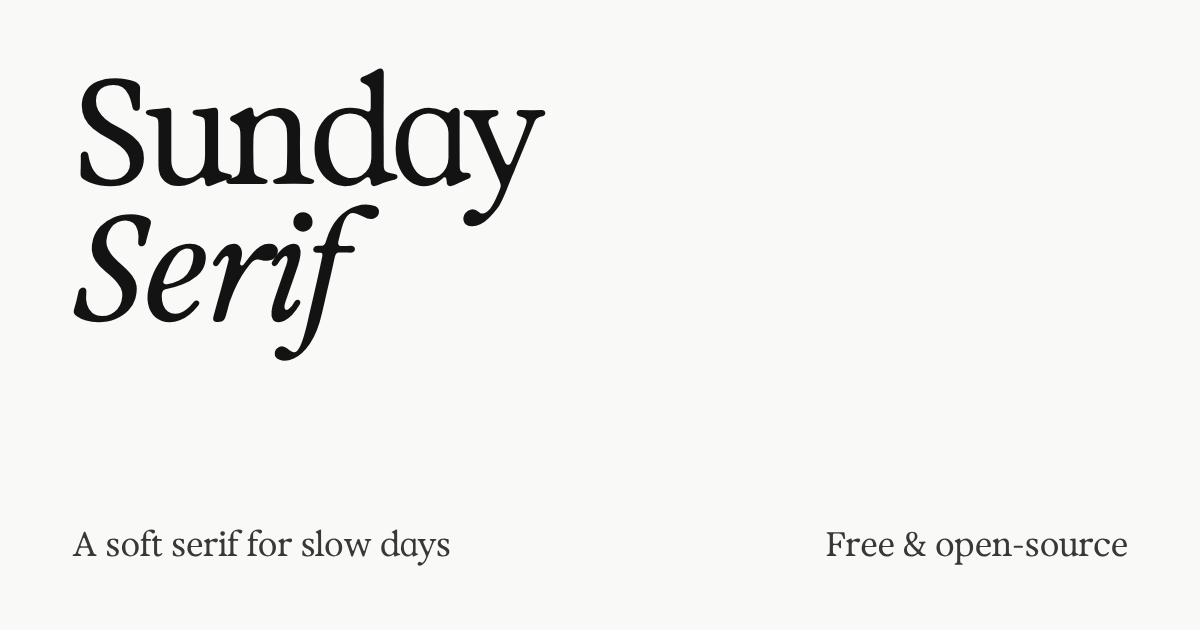
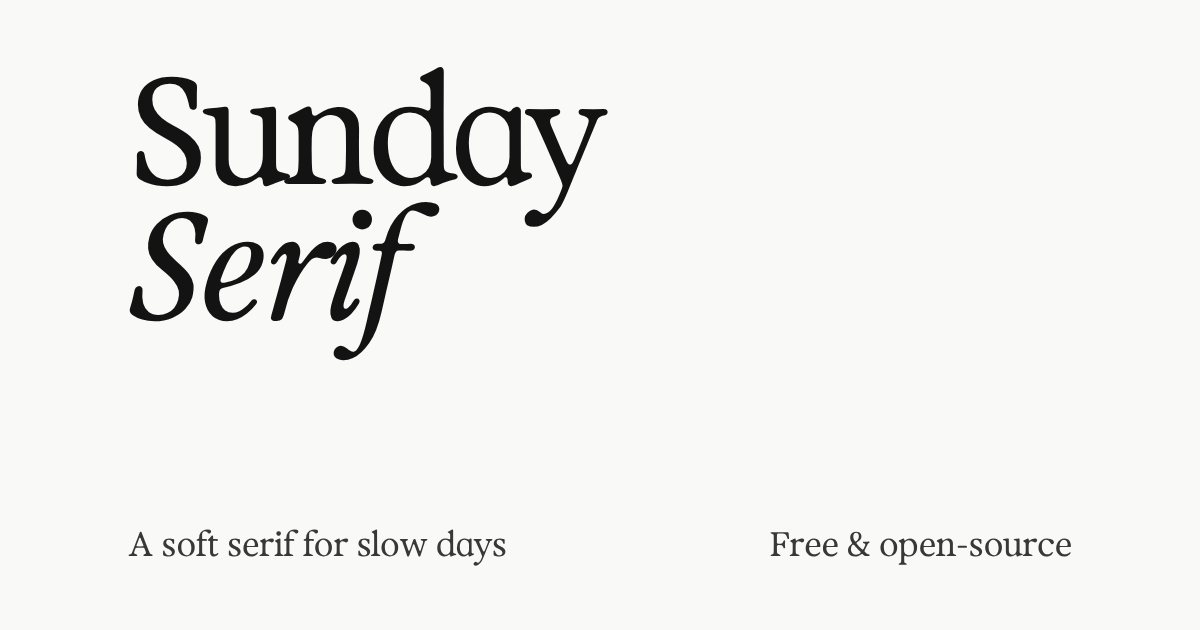
fix(site): match the og image margins and title size to the bio card
Claude-Session: https://claude.ai/code/session_01NzgfqKtVGHHL9qnvSDLkto

Changed region(s): [[0.0617, 0.0905, 0.5242, 0.573], [0.0617, 0.8444, 0.4317, 0.9048], [0.6167, 0.8444, 0.9558, 0.9048]]

diff --git a/scripts/og-source.html b/scripts/og-source.html
@@ -1,6 +1,6 @@
 <!doctype html><html><head><meta charset="utf-8"><link rel="stylesheet" href="styles.css">
 <style>body{margin:0;width:1200px;height:630px;overflow:hidden}
-.og{box-sizing:border-box;width:1200px;height:630px;padding:64px 72px;display:flex;flex-direction:column;justify-content:space-between;background:#F9F9F7;color:#131313}
-.og h1{font:400 148px/.92 "Sunday Serif";letter-spacing:-.03em;margin:0;color:#131313}
+.og{box-sizing:border-box;width:1200px;height:630px;padding:64px 128px;display:flex;flex-direction:column;justify-content:space-between;background:#F9F9F7;color:#131313}
+.og h1{font:400 150px/.9 "Sunday Serif";letter-spacing:-.03em;margin:0;color:#131313}
 .og p{font:400 34px/1.2 "Sunday Serif";color:#383835;margin:0;display:flex;justify-content:space-between;align-items:baseline}</style></head>
 <body><div class="og"><h1>Sunday<br><em>Serif</em></h1><p><span>A soft serif for slow days</span><span>Free &amp; open-source</span></p></div></body></html>
